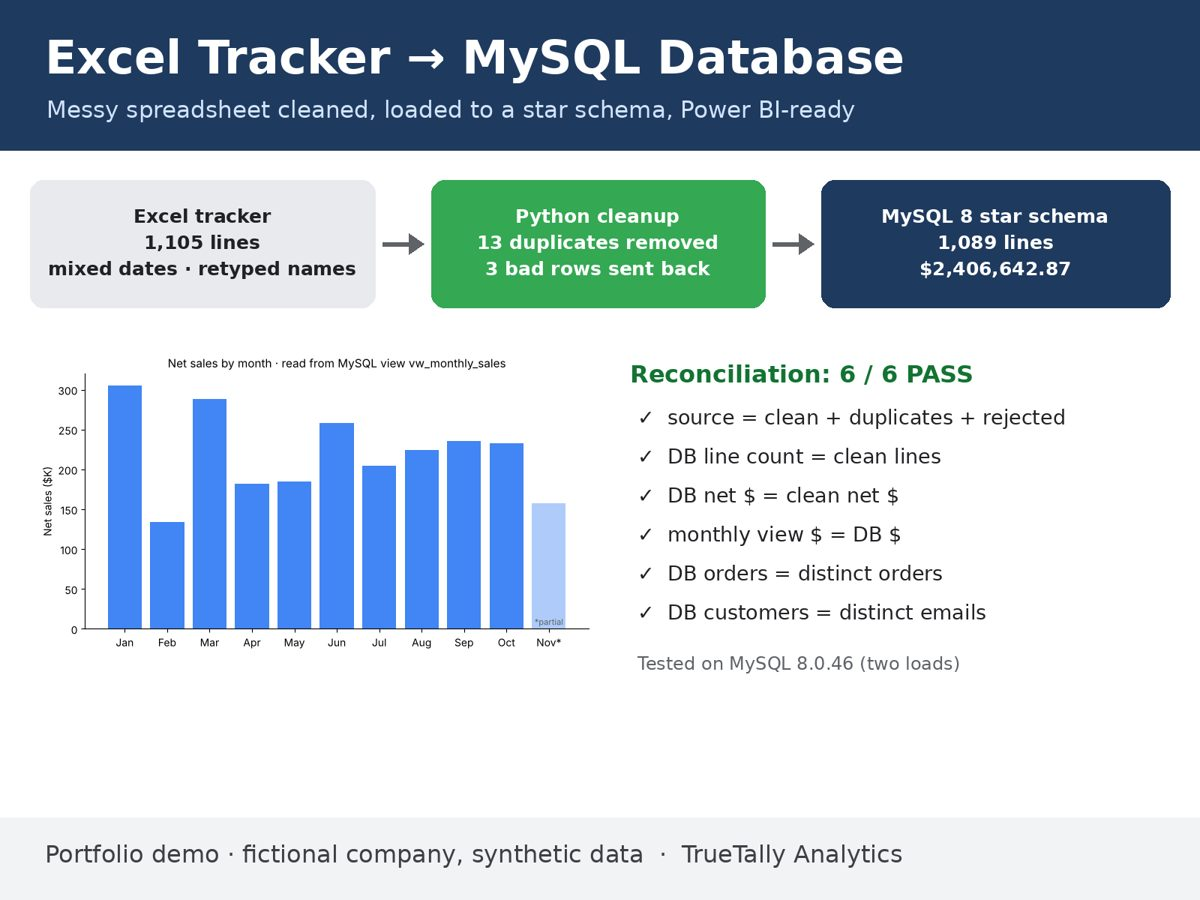
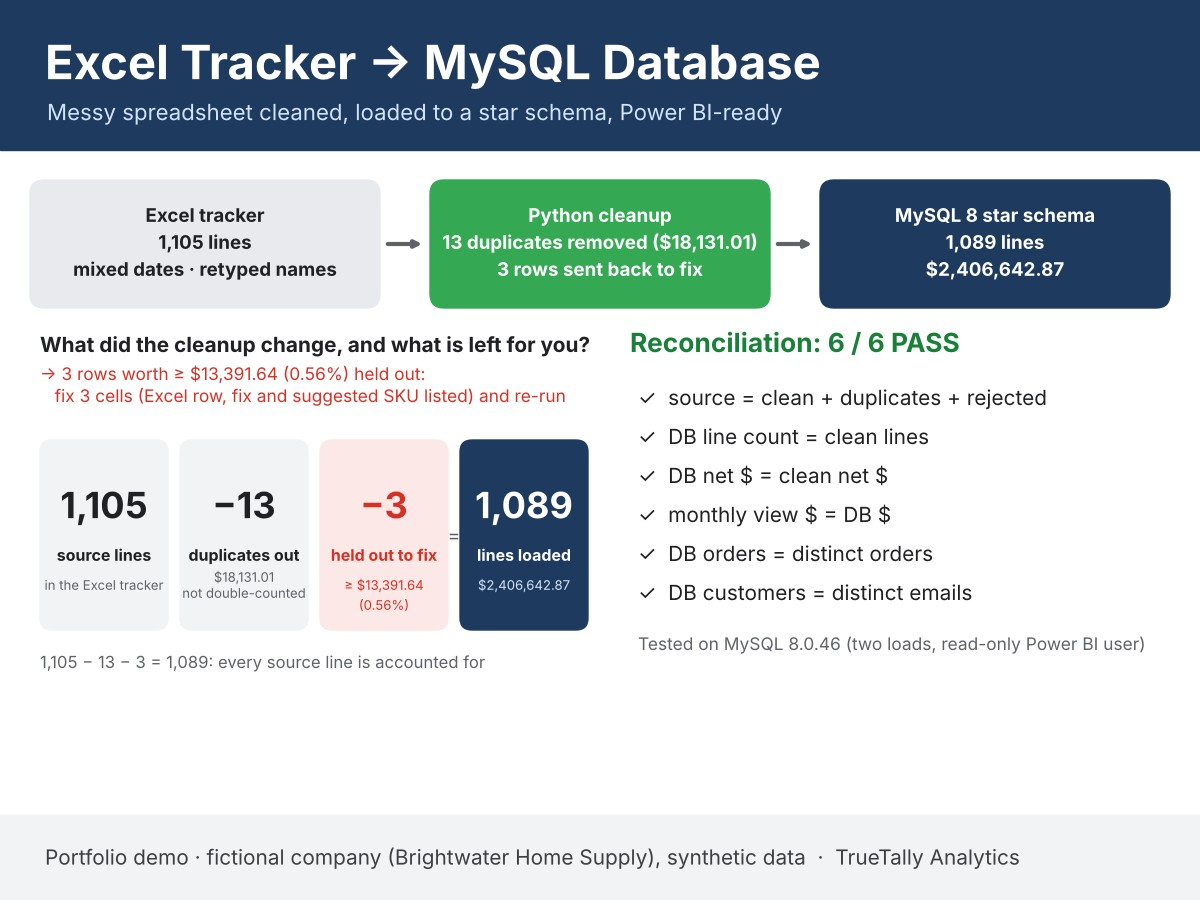
Update public portfolio site (synced from Freelancer-USA Sat 11/28/2026)

diff --git a/index.html b/index.html
@@ -85,7 +85,7 @@
       <div class="item"><img src="img/p05.jpg" alt="Restaurant operations Power BI dashboard, fictional restaurant group" loading="lazy"><div class="body"><h3>Restaurant operations</h3><p>Where food and labor cost leak and what to fix this month: one location's spring schedule ($68.6K over the labor target), which dishes to reprice and which to re-cost, and what delivery promos really cost. Demo targets are labeled. 5 automated tests.</p><div class="tags"><span class="tag">Power BI</span><span class="tag">Restaurants</span><span class="tag">Labor &amp; food cost</span></div></div></div>
       <div class="item"><img src="img/p07.jpg" alt="SaaS subscription metrics Power BI dashboard, fictional software company" loading="lazy"><div class="body"><h3>SaaS subscription metrics</h3><p>Whether retention is good enough to grow on (NRR 106%, GRR 88%), where MRR leaks by plan, and which acquisition channel earns the most per trial ($138 vs $53). Demo targets and estimates are labeled. 5 automated tests.</p><div class="tags"><span class="tag">Power BI</span><span class="tag">SaaS</span><span class="tag">Retention</span></div></div></div>
       <div class="item"><img src="img/p09.jpg" alt="Google Sheets maintenance tracker with Apps Script, fictional company" loading="lazy"><div class="body"><h3>Maintenance tracker in Google Sheets</h3><p>Status logic, live dashboard, one-click service logging and a daily overdue email digest via Apps Script. Covered by 8 automated tests.</p><div class="tags"><span class="tag">Google Sheets</span><span class="tag">Apps Script</span></div></div></div>
-      <div class="item"><img src="img/p10.jpg" alt="Excel to MySQL pipeline diagram and reconciliation checks" loading="lazy"><div class="body"><h3>Excel tracker to MySQL database</h3><p>Messy workbook cleaned in Python and loaded to a MySQL star schema. 6 of 6 reconciliation checks pass, totals match to the cent.</p><div class="tags"><span class="tag">Python</span><span class="tag">SQL</span><span class="tag">MySQL</span></div></div></div>
+      <div class="item"><img src="img/p10.jpg" alt="Excel to MySQL pipeline: lines removed, rows held out to fix, lines loaded, reconciliation checks" loading="lazy"><div class="body"><h3>Excel tracker to MySQL database</h3><p>Messy workbook cleaned in Python and loaded to a MySQL star schema: 13 double entries removed, 3 rows sent back with the exact cell to fix. 6 of 6 reconciliation checks pass, totals match to the cent.</p><div class="tags"><span class="tag">Python</span><span class="tag">SQL</span><span class="tag">MySQL</span></div></div></div>
       <div class="item"><img src="img/p11.jpg" alt="Multi-store sales reconciliation report" loading="lazy"><div class="body"><h3>Multi-store sales reconciliation</h3><p>Four store exports in different formats reconciled to bank deposits. The net variance (+$441.38) hides $521.38 to resolve on 2 store-days; the report says what to do about each one. 17 automated tests.</p><div class="tags"><span class="tag">Python</span><span class="tag">pandas</span><span class="tag">Excel</span></div></div></div>
       <div class="item"><img src="img/p12.jpg" alt="Bank reconciliation for Xero and QuickBooks Online, fictional company" loading="lazy"><div class="body"><h3>Bank reconciliation for Xero &amp; QuickBooks</h3><p>Bank statement vs. Xero or QuickBooks Online export. Ties to $0.00 and lists what to post: a returned customer check, fees, interest and a keying error that overstate book cash by $1,903. Same ledger as the Xero finance pack. 6 automated tests.</p><div class="tags"><span class="tag">Python</span><span class="tag">Xero</span><span class="tag">QuickBooks</span><span class="tag">Excel</span></div></div></div>
       <div class="item"><img src="img/p14.jpg" alt="n8n workflow reconciling Shopify orders to payouts, fictional store" loading="lazy"><div class="body"><h3>Shopify payout reconciliation in n8n</h3><p>Daily n8n workflow ties Shopify payouts to orders and sends one alert a client can act on: $2,047.65 still owed on 2 days, with the inquiry to open. Month view, and output that matches an independent Python check to the cent (7 tests).</p><div class="tags"><span class="tag">n8n</span><span class="tag">Shopify</span><span class="tag">Automation</span></div></div></div>
